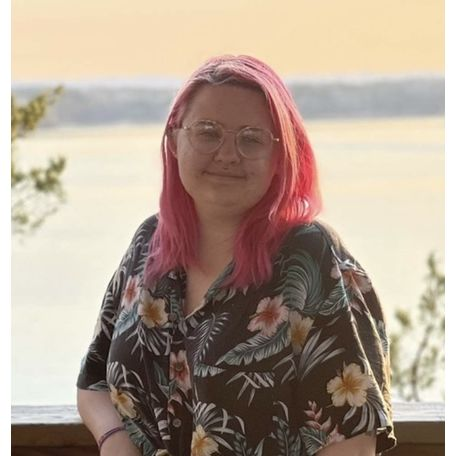
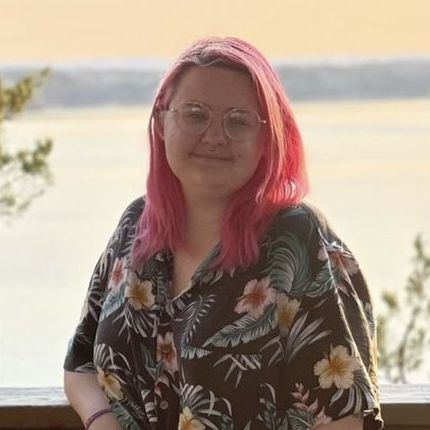
Updating images, adding to timeline, fixing projects link code

diff --git a/_includes/services.html b/_includes/services.html
@@ -16,13 +16,11 @@
       <div class="col-lg-{{ colsL }} col-md-{{ colsM }} text-center">
         <div class="mt-5">
           <!-- <i class="fas fa-4x {{ service.icon }} text-primary mb-4"></i> -->
-          <img class="fa fa-4x text-primary img-fluid mb-2" height="100em" width="100em" src="{{ service.image }}" alt="{{ member.title }}">
-          <h3 class="h4 mb-2">{{ service.title }}</h3>
+          <a href="{{ service.url }}"><img class="fa fa-4x text-primary img-fluid mb-2" height="100em" width="100em" src="{{ service.image }}" alt="{{ service.title }}">
+          <h3 class="h4 mb-2">{{ service.title }}</h3></a>
           <div class="text-muted mb-0">
             {{ service.text | markdownify }}
-            {% if service.url %}
-              <a href="{{ service.url }}"><i class="fas fa-link mr-2"></i><label> Check it out</label></a>
-            {% endif %}
+          
           </div>
         </div>
       </div>

diff --git a/_includes/timeline.html b/_includes/timeline.html
@@ -9,7 +9,8 @@
           {% for action in section.actions %}
           <li class="{% cycle 'timeline-normal', 'timeline-inverted' %}">
             <div>
-            <img style='height:70%'; class="rounded img-responsive timeline-image" src="{{ action.image }}" alt="">
+            <img class="fa fa-4x text-primary img-fluid mb-2 rounded timeline-image" height="100em" width="100em" src="{{ action.image }}" alt="{{ action.title }}">
+
             </div>
             <div class="timeline-panel">
               <div class="timeline-heading">

diff --git a/index.md b/index.md
@@ -14,7 +14,7 @@ sections:
     section_id: about
     background_style: bg-primary
     title: Our Mission
-    text: Disco Tray Studios is a community-focused software development initiative at Hendrix College in Conway, Arkansas. We are five students led by Professor of Computer Science, Dr. Mark Goadrich. This project aims to empower students in developing interactive educational games for social good and provide opportunities for student to execute and complete longer-term software development projects that support the technological needs of the local community.
+    text: Nonprofit organizations increasingly rely on technology, however, their budgets for technology improvements or new ventures are typically small or nonexistent. Disco Tray Studios at Hendrix College creates software for community partners to support their mission and workflow by providing free prototyping and initial development through utilizing the technology skills of our computer science students. We create interactive websites that help organize and share information and manage complex systems, mobile applications to connect users with resources and information, and educational games to promote empathy and learning.
     # actions:
     #   - title: Get Started!
     #     url: '#page-top'
@@ -30,43 +30,49 @@ sections:
         text: My Life in Months is a website that allows you to make a chart of your life throughout the months.
         icon: fa-gem text-info
         image: assets/img/logo500.png
-        url: 2020/09/08/mlim.html
+        url: https://discotraystudios.github.io/my-life-in-months/
 
-      - title: Hendrix Assesment
+      - title: Hendrix Assessment
         text: A website for all Hendrix professors to assess how many students met certain learning goals at the end of the semeter.
         icon: fa-gem text-info
-        image: assets/img/logo5.png
+        image: assets/img/hdxlogo7.png
         url: 2020/11/04/hdx-assessment.html
 
       - title: Astronomical Bodies
         text: A 2D physics game in space.
         icon: fa-gem text-info
         image: assets/img/posts/ABicon.png
-        url: 2021/10/18/gdab.html
+        url: https://discotraystudios.itch.io/astronomical-bodies
 
       - title: ChemSim
         text: An educational tool to practice the change in values after reactions.
         icon: fa-gem text-info
         image: assets/img/posts/CSicon.png
-        url: 2021/11/07/gdcs.html
+        url: https://discotraystudios.itch.io/chemsim
 
       - title: Climate Goes Political
         text: A turn-based game where you discuss with your fellow countries whether or not to decrease emissions.
         icon: fa-gem text-info
         image: assets/img/posts/CGPicon.png
-        url: 2021/11/08/gdcgp.html
+        url: https://discotraystudios.itch.io/climate-goes-political
 
       - title: "@itsmaya"
         text: A visual novel game where you follow the life of a Black girl named Maya as many different people as she goes through the American school system.
         icon: fa-gem text-info
         image: assets/img/posts/IMicon.png
-        url: 2022/02/03/gdim.html
+        url: https://discotraystudios.itch.io/itsmaya
 
       - title: "Good Vibes"
         text: A mood tracker app in which you log your mood and recieve "Good Vibes." Become more aware of your mood over time and inspire yourself and others with powerful quotes.
         icon: fa-gem text-info
         image: assets/img/posts/GoodVibes.png
-        url: 2022/04/05/goodvibes.html
+        url: https://discotraystudios.github.io/good-vibes/
+
+      - title: "Cultivating Competencies"
+        text: Play your first two years as a student trying to succeed at Hendrix, learning about career competencies along the way.
+        icon: fa-gem text-info
+        image: assets/img/CSCC.png
+        url: https://discotraystudios.itch.io/cultivating-competencies
 
 
   # - type: aside.html
@@ -108,7 +114,7 @@ sections:
         url: 'https://larsonog.github.io/blog/'
       - title: LUCY LYON
         text: Three Raccoons in a Trench Coat
-        image: assets/img/members/Lucy.jpeg
+        image: assets/img/members/Lucy.png
         url: 'https://lucylyon.github.io/'
       - title: MATTHEW KALAHIKI
         text: NullPointerException
@@ -148,17 +154,17 @@ sections:
     background_style: bg-dark text-primary
     # last_image: assets/img/tdc.png
     actions:
-      - image: assets/img/bland-logo.png
+      - image: assets/img/bland-logo-square.png
         title: >+
           [July 2020 - Founded](https://discotraystudios.github.io/2020/09/06/disco.html)
         text: >-
-          Dr. Goadrich got funding to hire 5 students for the school year
+          Dr. Goadrich got funding to hire 5 students for the school year.
       - image: assets/img/logo500.png
         title: >+
           [September 2020 - My Life In Months Completed](https://discotraystudios.github.io/2020/09/08/mlim.html)
         text: >-
-          A website where you can document your life throughout the months
-      - image: assets/img/hdxlogo.jpg
+          A website where you can document your life throughout the months.
+      - image: assets/img/hdxlogo7.png
         title: >+
          [October 2020 - Hendrix Assessment Started](https://discotraystudios.github.io/2020/11/04/hdx-assessment.html)
         text: >-
@@ -166,11 +172,31 @@ sections:
       - image: assets/img/twitchlogo.jpg
         title: >+
           [November 2020 - We Started Streaming!](https://discotraystudios.github.io/2020/11/04/streaming.html)
-        text: We created a Twitch account to review educational games
+        text: We created a Twitch account to review educational games.
+      - image: assets/img/posts/ABicon.png
+        title: >+
+          [March 2021 - Educational Games](https://discotraystudios.github.io/2020/11/04/streaming.html)
+        text: We coordinated with faculty and staff at Hendrix in Chemistry, Sociology, Physics, Economics, Career Services, and the Windgate Museum, to create educational games and simulations.
+      - image: assets/img/Database.png
+        title: >+
+          [September 2021 - Websites and Databases]()
+        text: We began partnerships on and off campus to create websites and databases.
       - image: assets/img/posts/GoodVibes.png
         title: >+
-          [March 2022 - Good Vibes!](https://discotraystudios.github.io/2020/11/04/streaming.html)
+          [March 2022 - Good Vibes!](https://discotraystudios.github.io/2022/04/05/goodvibes.html)
         text: We released a mood tracker app in which you log your mood and recieve "Good Vibes." Become more aware of your mood over time and inspire yourself and others with powerful quotes.
+      - image: assets/img/posts/CGPicon.png
+        title: >+
+          [April 2022 - Games Released](https://discotraystudios.github.io/2021/11/08/gdcgp.html)
+        text: We released Climate Goes Political, Astronomical Bodies, @itsmaya, and ChemSim, for our partners.
+      - image: assets/img/PMLlogo.png
+        title: >+
+          [August 2022 - Play Make Learn!](https://discotraystudios.github.io/2022/08/08/pml.html)
+        text: We presented our framework for educational game development with community partners at the Play Make Learn conference in Madison, WI.
+      - image: assets/img/CSCC.png
+        title: >+
+          [October 2022 - Cultivating Competencies!](https://discotraystudios.github.io/2020/11/04/streaming.html)
+        text: We released a game guiding students through their first two years as a Hendrix student and the potentail for engaging with career competencies.
 
 
   - type: contact.html

diff --git a/_posts/2022-08-08-pml.md b/_posts/2022-08-08-pml.md
@@ -1,7 +1,7 @@
 ---
 layout: posts
 title:  "Play Make Learn 2022"
-image: /assets/img/posts/PML2022.png
+image: /assets/img/PMLlogo.png
 author: Mark Goadrich
 avatar: /assets/img/members/DrGoadrich.png
 authorhome: https://mark.goadrich.com/
